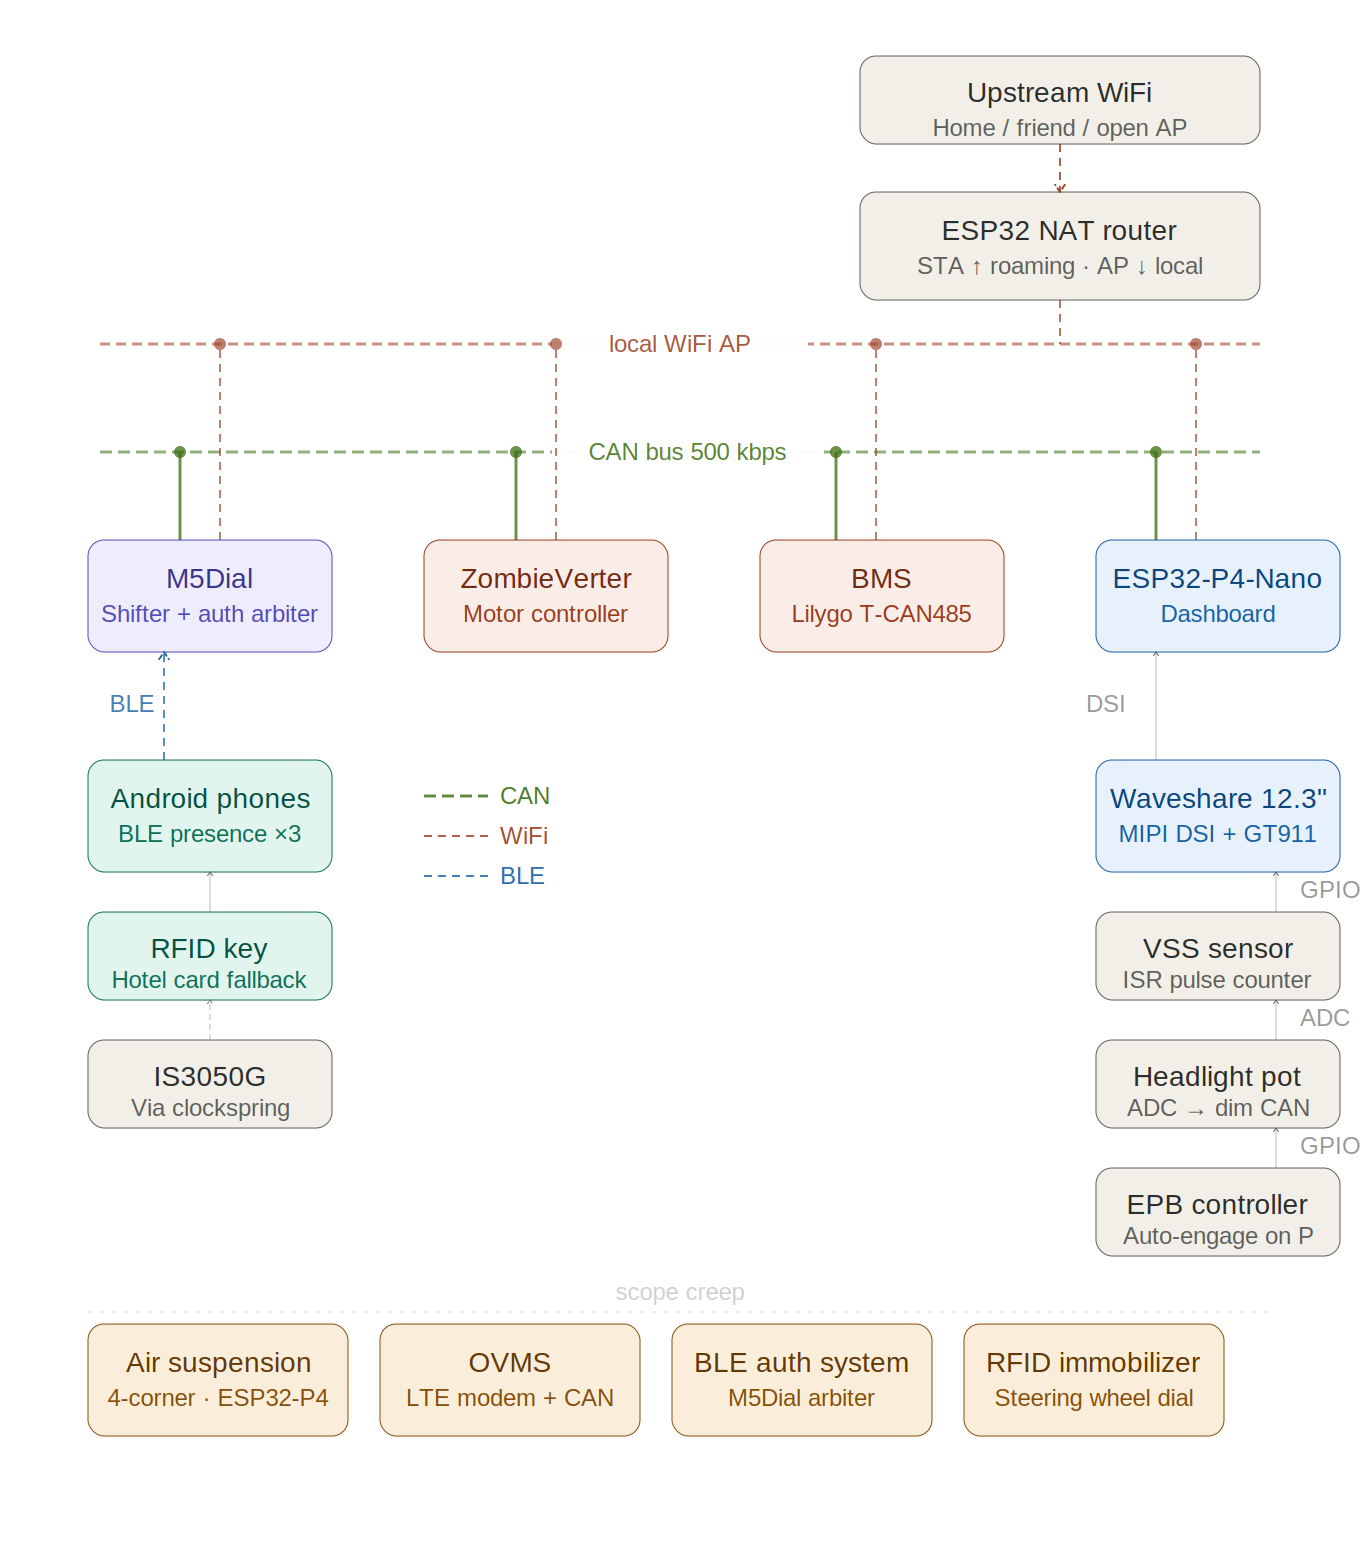
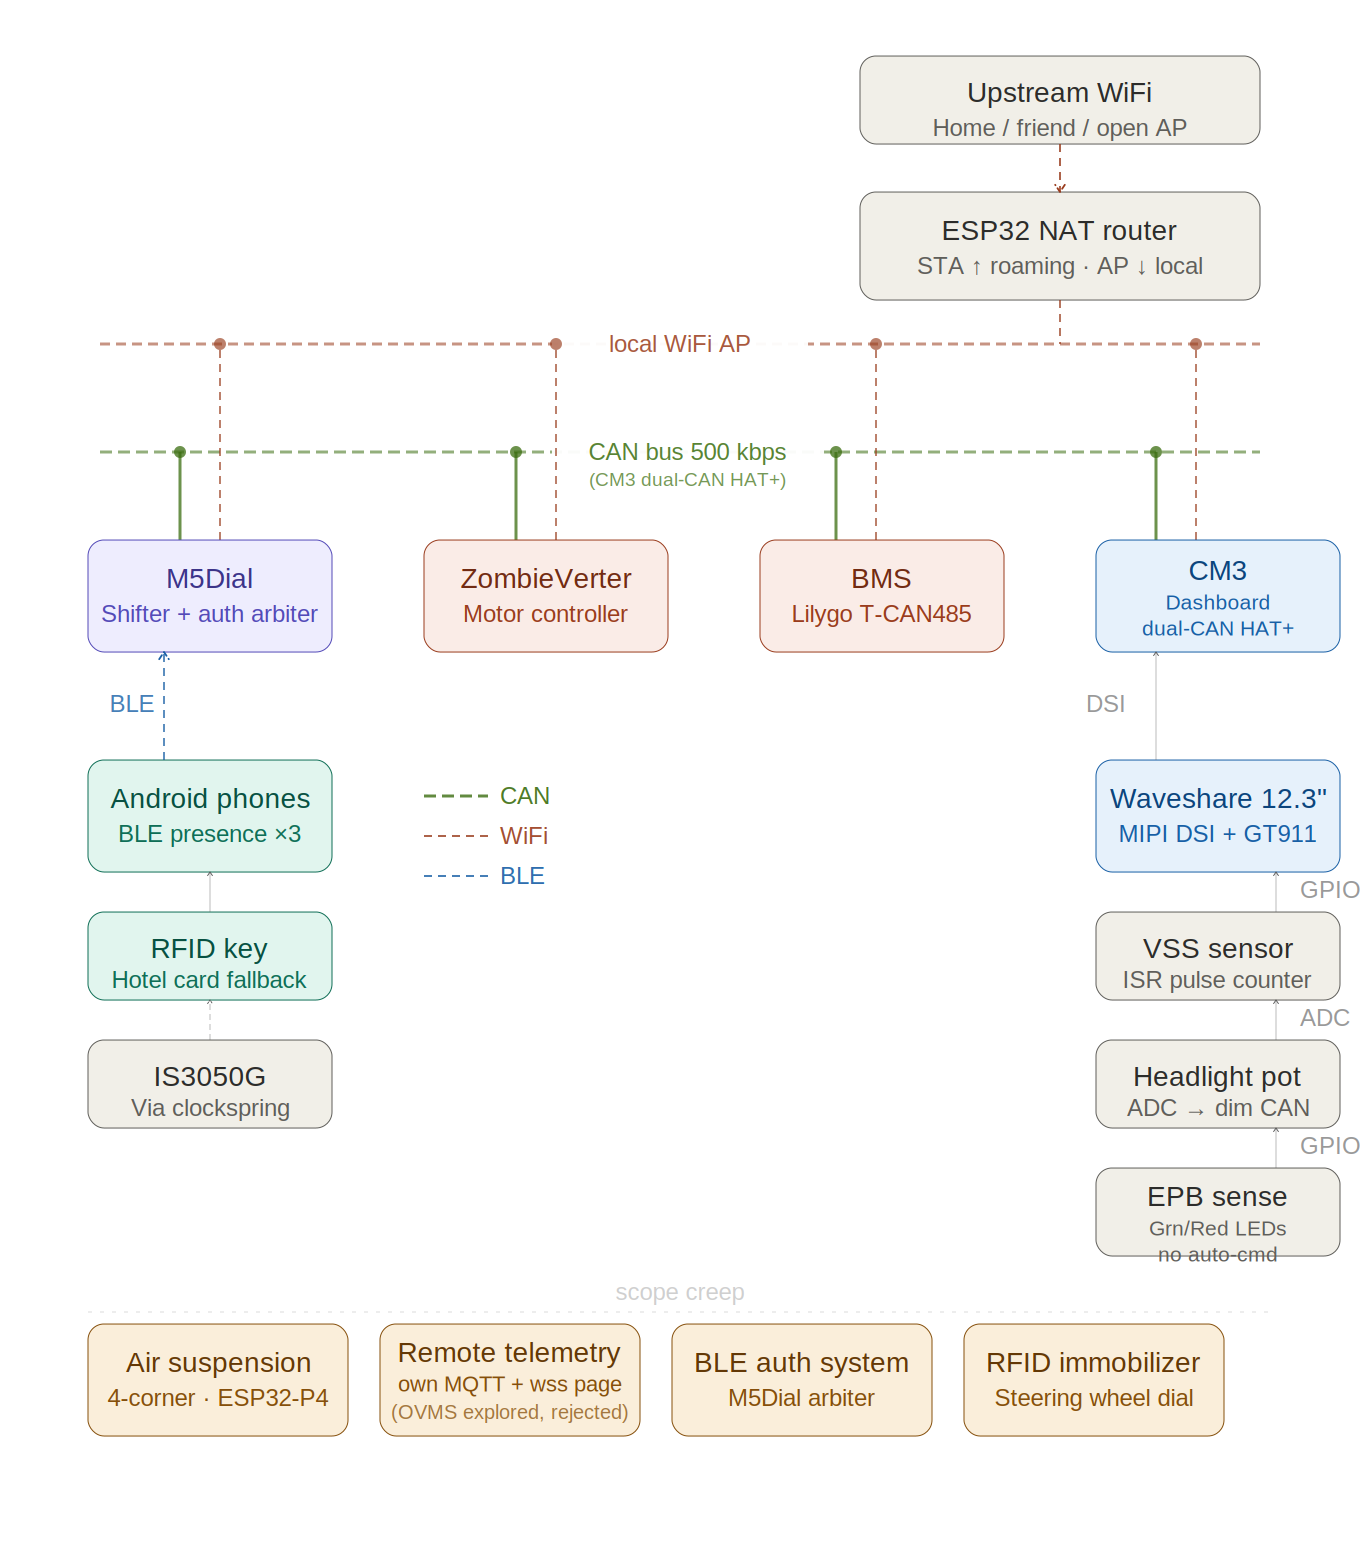
Update with latest changes

Changed region(s): [[0.2779, 0.8615, 0.4632, 0.9231], [0.8338, 0.3385, 0.9574, 0.4308], [0.8338, 0.7385, 0.9574, 0.8308]]

diff --git a/system_diagram.md b/system_diagram.md
@@ -20,17 +20,17 @@
 │                              │                                  │
 │                   ┌──────────┴──────────┐                       │
 │                   │     Dashboard       │                       │
-│                   │  ESP32-P4-NANO      │                       │
-│                   │  Waveshare 10.1"    │                       │
-│                   │  MIPI DSI           │                       │
+│                   │  Radxa CM3          │                       │
+│                   │  dual-CAN HAT+      │                       │
+│                   │  Waveshare 12.3" DSI│                       │
 │                   └──────────┬──────────┘                       │
 └──────────────────────────────┼──────────────────────────────────┘
                                │
         ┌──────────────────────┼──────────────────────┐
         │                      │                      │
 ┌───────┴──────┐    ┌──────────┴───────┐   ┌──────────┴───────┐
-│ Headlight pot│    │   VSS sensor     │   │  EPB controller  │
-│ ADC→dimming  │    │  PCNT edge count │   │ GPIO LED+button  │
+│ Headlight pot│    │   VSS sensor     │   │    EPB sense     │
+│ ADC→dimming  │    │  PCNT edge count │   │ Grn/Red LEDs only│
 └──────────────┘    └──────────────────┘   └──────────────────┘
 ```
 
@@ -50,10 +50,10 @@ Home WiFi ←→ ESP32 NAT Router ←→ Zombieverter web UI
 | 1 | Steering wheel shifter | M5Dial + IS3050G CAN unit | ✅ Done |
 | 2 | BMS interface | Lilygo T-CAN485 | ✅ Done |
 | 3 | NAT router | ESP32 (dedicated, esp32_nat_router) | ⏳ TBD |
-| 4 | Dashboard (bench/dev) | M5Stack Tab5 (ESP32-P4) | ✅ Working |
-| 5 | Dashboard (production) | Waveshare ESP32-P4-NANO + 10.1" DSI | ⏳ Next |
+| 4 | Dashboard (bench/dev) | M5Stack Tab5 (ESP32-P4) | ⚠ Superseded |
+| 5 | Dashboard (production) | Radxa CM3 + dual-CAN HAT+ + Waveshare 12.3" DSI | ⏳ In progress (CM3 booted, CAN dts pending) |
 | 6 | Reverse camera | TBD (CSI too short for 14ft run) | 🔮 Future |
-| 7 | EPB controller | Existing EPB + GPIO from dashboard | ⏳ Pending |
+| 7 | EPB | RevUS controller drives caliper; CM3 senses Grn/Red only, no auto-cmd | ✅ Decided |
 
 ## CAN Signal Map
 
@@ -71,18 +71,16 @@ Home WiFi ←→ ESP32 NAT Router ←→ Zombieverter web UI
 | Cruise speed | 0xDEAD | Zombieverter (cruisespeed) | TODO: assign CAN ID |
 | Cruise state | 0xDEAD | Zombieverter (cruisestt) | TODO: assign CAN ID |
 
-## Dashboard GPIO (P4-NANO — to be assigned)
+## Dashboard I/O (Radxa CM3 HAT — see evj55-cm3-hat notes for the full pin map)
 
 | Signal | Type | Notes |
 |--------|------|-------|
-| CAN TX | TWAI output | Any free GPIO + IS3050G |
-| CAN RX | TWAI input | Any free GPIO + IS3050G |
+| CAN1/CAN2 | SPI3 → MCP2515 dual-CAN HAT+ | HAT_CAN1↔Zombie CAN EXT (SDO poll), HAT_CAN2↔CAN EXT 2 (vehicle+charger) |
 | Headlight pot | ADC input | Backlight + CAN dimming master |
-| VSS | PCNT input | Pulse counter, cross-check speed |
-| EPB green LED | GPIO input | Active = brake released |
-| EPB red LED | GPIO input | Active = brake applied |
-| EPB button | GPIO output | Pulse low ~200ms to toggle |
-| Backlight PWM | LEDC output | Already on P4-NANO board |
+| VSS | Pulse input (Block A front-end) | Cross-check speed |
+| EPB green LED | GPIO input (Block A, active-high) | Reflects latched released state |
+| EPB red LED | GPIO input (Block A, active-high) | Reflects latched applied state |
+| Backlight PWM | PWM output | Waveshare 12.3" DSI panel |
 
 ## Clockspring Wiring (M5Dial to column IS3050G)
 
@@ -96,11 +94,13 @@ Home WiFi ←→ ESP32 NAT Router ←→ Zombieverter web UI
 
 ## Pending Items
 
-- [ ] Waveshare P4-NANO + 10.1" display bring-up (port tab5_display.c to waveshare_display.c)
+- [ ] CM3 CAN HAT+ device-tree work (board booted, ssh'd in, hostname ev-dashboard; CAN dts still needed)
+- [ ] Waveshare 12.3" DSI bring-up on CM3
 - [ ] VSS pulse counter code (exists in another chat, needs integration)
 - [ ] Headlight pot ADC + CAN dimming broadcast
-- [ ] EPB GPIO task + auto-engage on P gear
+- [ ] EPB sense-only GPIO task (no auto-engage — dropped as a safety call, driver uses the physical button)
 - [ ] NAT router hardware selection and flash
+- [ ] Remote telemetry: own mosquitto MQTT on the VPS + wss page (design only, nothing built; see HANDOFF.md)
 - [ ] Zombieverter oic CAN mappings (script: scripts/setup_can_mappings.sh)
 - [ ] Cruise control CAN IDs (currently 0xDEAD stubs)
 - [ ] RFID immobilizer on M5Dial (hotel key card UID whitelist)
